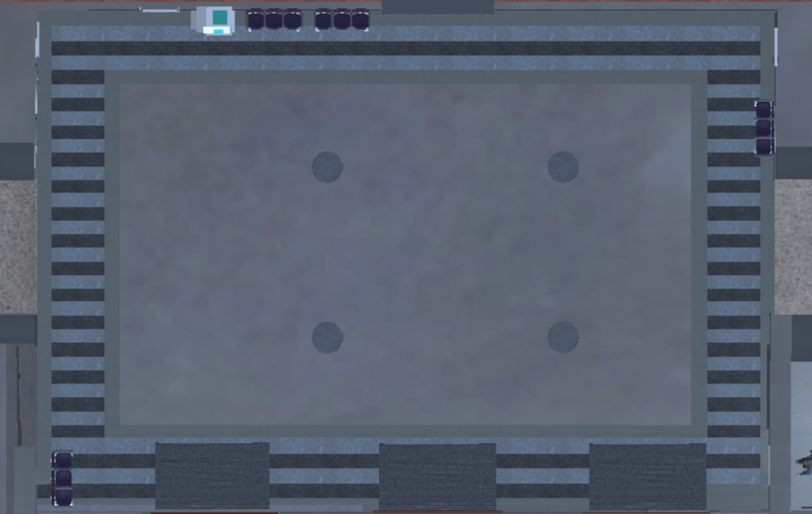
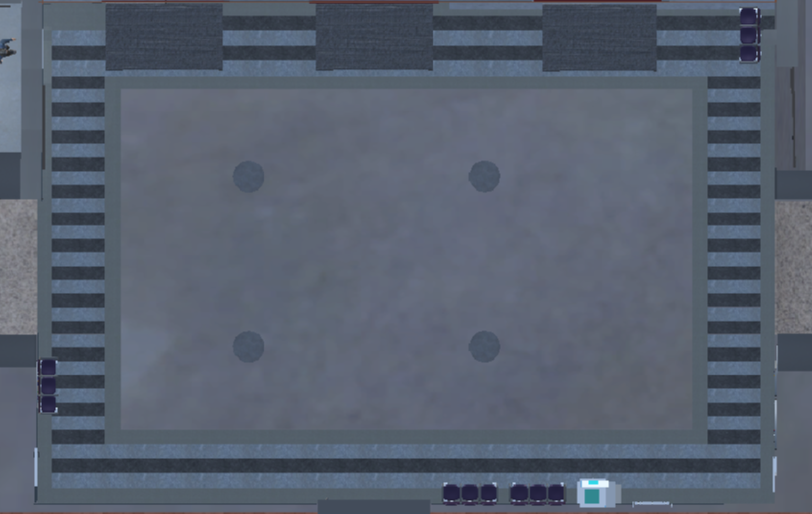
Code for Homography and Image warping done

diff --git a/ApplicationCode/videofile.cpp b/ApplicationCode/videofile.cpp
@@ -40,7 +40,7 @@ void VideoFile::VideoOpenning(string InputPath)
 
 void VideoFile::paintBoundingBoxes(Mat ActualFrame, string Method)
 {
-    if (Method.compare("HOG")) {
+    if (!Method.compare("HOG")) {
         for (size_t i = 0; i < HOGBoundingBoxesNMS.size(); i++) {
             Rect r = HOGBoundingBoxesNMS[i];
             // The HOG detector returns slightly larger rectangles than the real objects.
@@ -55,7 +55,7 @@ void VideoFile::paintBoundingBoxes(Mat ActualFrame, string Method)
         HOGBoundingBoxes.clear();
     }
 
-    else if (Method.compare("FastRCNN")) {
+    else if (!Method.compare("FastRCNN")) {
         for (size_t i = 0; i < RCNNBoundingBoxesNMS.size(); i++) {
             Rect r = RCNNBoundingBoxesNMS[i];
             rectangle(ActualFrame, r.tl(), r.br(), cv::Scalar(0, 255, 0), 1);
@@ -264,3 +264,27 @@ void VideoFile::imageEnhancement(Mat ActuaFrame)
     }
 }
 
+void VideoFile::computeHomography(Mat CenitalPlane, Mat CameraFrame)
+{
+
+    // Camera Frame
+    // Four points in the camera frame
+    vector<Point2f> pts_src;
+    pts_src.push_back(Point2f(223, 373));
+    pts_src.push_back(Point2f(558, 393));
+    pts_src.push_back(Point2f(335, 226));
+    pts_src.push_back(Point2f(26, 229));
+
+
+    // Cenital Plane Frame
+    // Four same points in the Cenital Plane
+    vector<Point2f> pts_dst;
+    pts_dst.push_back(Point2f(617, 379));
+    pts_dst.push_back(Point2f(692, 430));
+    pts_dst.push_back(Point2f(776, 335));
+    pts_dst.push_back(Point2f(709, 199));
+
+    // Calculate Homography
+    Homography = findHomography(pts_src, pts_dst);
+
+}

diff --git a/ApplicationCode/mainwindow.cpp b/ApplicationCode/mainwindow.cpp
@@ -95,6 +95,7 @@ void MainWindow::ProcessVideo(){
 
     // Frames Enhancement
     Video.imageEnhancement(Video.ActualFrame);
+    Video.ActualFrame.copyTo(Video.ActualFrame2);
     Video.ActualFrame.copyTo(Video.ActualFrameRCNN);
 
     // ----------------------- //
@@ -119,6 +120,16 @@ void MainWindow::ProcessVideo(){
     // Paint blobs
     Video.paintBoundingBoxes(Video.ActualFrame, "HOG");
     Video.paintBoundingBoxes(Video.ActualFrameRCNN, "FastRCNN");
+
+    // ----------------------- //
+    //     HOMOGRAPHY & IW     //
+    // ----------------------- //
+    Video.computeHomography(Video.CenitalPlane, Video.ActualFrame2);
+    warpPerspective(Video.ActualFrame2, Video.ImageWarping, Video.Homography, Video.ImageWarping.size());
+
+    Mat aux = imread("/Users/alex/IPCV-MasterThesis/ApplicationCode/Inputs/CenitalView.png");
+    imshow("Warped Image", Video.ImageWarping);
+    imshow("Cenital Image", aux);
 
     /* -----------------------*/
     /* -----------------------*/

diff --git a/ApplicationCode/videofile.h b/ApplicationCode/videofile.h
@@ -25,6 +25,7 @@ public:
 
     // Mat to store the frame to process
     Mat ActualFrame;
+    Mat ActualFrame2;
     Mat ActualFrameRCNN;
 
     // Enhancement methods
@@ -34,6 +35,12 @@ public:
     // Mixture Of Gaussians Background Substractor
     Mat BackgroundMask;
     Ptr<BackgroundSubtractor> pMOG2 = createBackgroundSubtractorMOG2();
+
+    // Hmography and Image Wrapping
+    Mat CenitalPlane;
+    Mat Homography;
+    Mat ImageWarping;
+    void computeHomography(Mat CenitalPlane, Mat CameraFrame);
 
     // HOG People Detection
     vector<Rect> HOGBoundingBoxes;

diff --git a/Matlab/ExtractPointsHomography.m b/Matlab/ExtractPointsHomography.m
@@ -1,0 +1,22 @@
+clc;
+clear all;
+close all;
+
+% Parameters
+VideoName = 'HallCutted.mpg';
+
+% Videofile Structure
+VideoFile = VideoReader(VideoName);
+
+while hasFrame(VideoFile)
+
+    
+    Image = readFrame(VideoFile);
+    Image = imresize(Image, 2, 'lanczos3');
+    Image = imgaussfilt(Image, 1);
+
+    figure(1)
+    imshow(Image)
+    
+    pause();
+end
